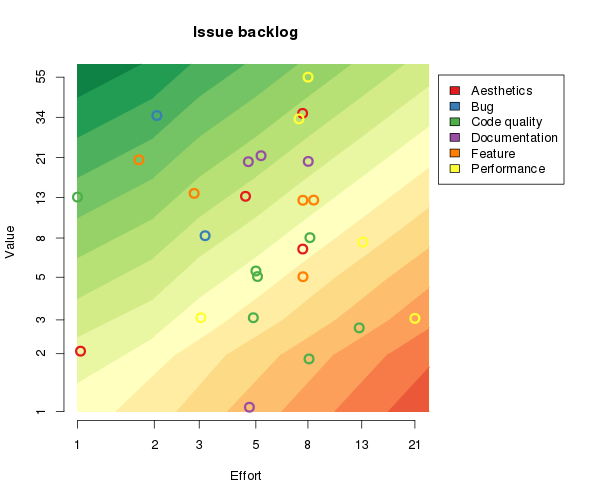
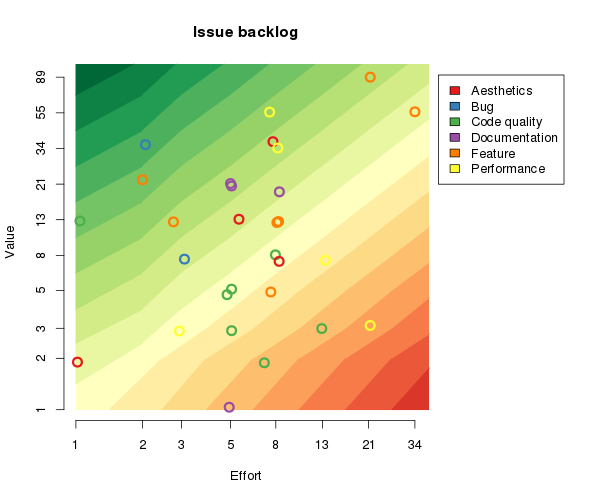
Update backlog

diff --git a/doc/backlog/backlog.md b/doc/backlog/backlog.md
@@ -14,14 +14,16 @@ Legend:
 | [154](https://github.com/timgurto/mmo/issues/154) | Allow giving away or begging for goods via trade | Feature | 13 | 3 | ![3](roi-images/roi_3.png) |  |
 | [146](https://github.com/timgurto/mmo/issues/146) | Document Texture interface | Documentation | 21 | 5 | ![3](roi-images/roi_3.png) |  |
 | [148](https://github.com/timgurto/mmo/issues/148) | Document XML interface | Documentation | 21 | 5 | ![3](roi-images/roi_3.png) |  |
-| [60](https://github.com/timgurto/mmo/issues/60) | Add particle effects when cutting down a tree | Aesthetics | 34 | 8 | ![3](roi-images/roi_3.png) |  :heavy_division_sign: |
-| [161](https://github.com/timgurto/mmo/issues/161) | Cull players | Performance | 34 | 8 | ![3](roi-images/roi_3.png) |  :heavy_division_sign: |
+| [60](https://github.com/timgurto/mmo/issues/60) | Add particle effects when cutting down a tree | Aesthetics | 34 | 8 | ![3](roi-images/roi_3.png) |  |
+| [161](https://github.com/timgurto/mmo/issues/161) | Cull players | Performance | 34 | 8 | ![3](roi-images/roi_3.png) |  |
+| [165](https://github.com/timgurto/mmo/issues/165) | Gear | Feature | 89 | 21 | ![3](roi-images/roi_3.png) | :no_entry_sign:164 :heavy_division_sign: |
 | [95](https://github.com/timgurto/mmo/issues/95) | Fix scroll-bar dragging offset | Bug | 8 | 3 | ![2](roi-images/roi_2.png) |  |
 | [83](https://github.com/timgurto/mmo/issues/83) | Sort _materials and _craftableItems by name, not ID | Aesthetics | 13 | 5 | ![2](roi-images/roi_2.png) |  |
 | [145](https://github.com/timgurto/mmo/issues/145) | Document UI interface | Documentation | 21 | 8 | ![2](roi-images/roi_2.png) |  |
 | [93](https://github.com/timgurto/mmo/issues/93) | Allow terrain types to be marked as non-blending | Aesthetics | 2 | 1 | ![1](roi-images/roi_1.png) |  |
 | [129](https://github.com/timgurto/mmo/issues/129) | Add grass objects, which grow naturally on grass tiles | Feature | 13 | 8 | ![1](roi-images/roi_1.png) |  |
 | [130](https://github.com/timgurto/mmo/issues/130) | Make trees drop branches over time | Feature | 13 | 8 | ![1](roi-images/roi_1.png) |  |
+| [164](https://github.com/timgurto/mmo/issues/164) | Combat | Feature | 55 | 34 | ![1](roi-images/roi_1.png) |  :heavy_division_sign: |
 | [100](https://github.com/timgurto/mmo/issues/100) | Optimize container types for faster iteration | Performance | 3 | 3 | ![0](roi-images/roi_0.png) |  |
 | [101](https://github.com/timgurto/mmo/issues/101) | Change dynamic_casts that don't check their result to static_cast or check for nullptr | Code quality | 5 | 5 | ![0](roi-images/roi_0.png) |  |
 | [138](https://github.com/timgurto/mmo/issues/138) | Use set::count() and map::count() to test set membership | Code quality | 5 | 5 | ![0](roi-images/roi_0.png) |  |
